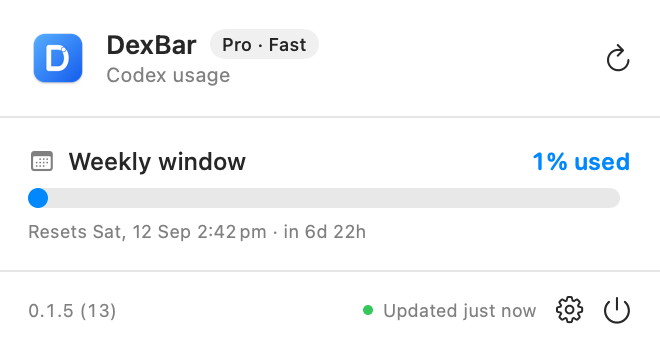
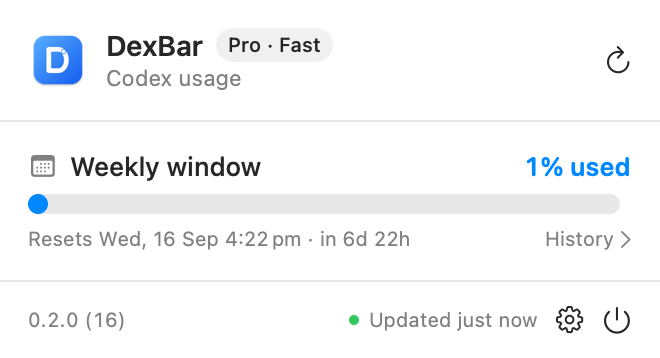
Update README and screenshots for DexBar 0.2.0

diff --git a/README.md b/README.md
@@ -24,6 +24,9 @@ SwiftUI and AppKit, contains no web view, and stays out of the Dock. The normal 
 deliberately quiet: weekly usage remains primary, while shorter or model-specific limits
 surface only when Codex reports that they matter.
 
+Version **0.2.0** adds daily usage history, time-zone views, early-reset reporting, and larger
+popover text. See the [0.2.0 release notes](https://github.com/vmlrodrigues/DexBar/releases/tag/v0.2.0).
+
 <p align="center">
   <a href="Docs/DexBar-current.png"><img src="Docs/DexBar-current.png" width="600" alt="DexBar showing the minimal weekly usage view"></a>
 </p>
@@ -66,6 +69,18 @@ times make partial first and last days explicit. Extended windows open with toda
 small arrows beside the daily strip provide access to earlier and later days. If readings
 were recorded in different time zones, a time-zone menu keeps each zone's days accessible
 with their original calendar boundaries.
+
+Use the arrows beside the date range to move between allowance windows. Background refreshes
+keep the selected window in place while it remains in the stored history.
+
+Daily totals use these markers:
+
+| Example | Meaning |
+| --- | --- |
+| `+5%` | Usage measured from a reset or a baseline close to local midnight. |
+| `≈5%` | Estimated daily attribution across a longer observation gap. |
+| `≥5%` | At least this much usage since the first observation; the day's baseline is incomplete. |
+| `—` | No daily total is available, or the day is still in the future. |
 
 <p align="center">
   <a href="Docs/DexBar-history-current.png"><img src="Docs/DexBar-history-current.png" width="600" alt="DexBar daily history showing the current usage week"></a>
@@ -117,7 +132,7 @@ and red appear only when the uncertainty range says the allowance may or is like
 - Immediate refresh when the popover opens and after the Mac wakes.
 - Optional notifications at 80%, 95%, and when the weekly projection crosses the limit.
 - An optional global shortcut to show or hide the popover from any app.
-- Launch at login, manual refresh, projection-history clearing, and a manual update check.
+- Launch at login, manual refresh, clearing projection and daily history, and a manual update check.
 - Daily Sparkle update checks that always ask before installing.
 
 The global shortcut uses Carbon hotkey registration. It receives only the chosen combination,
@@ -130,8 +145,9 @@ and the effective default service mode. It reuses the existing Codex sign-in but
 or copy authentication tokens into its own files or logs. Checking usage does not send a prompt,
 consume allowance, or start a usage window.
 
-For projection and daily history, DexBar stores only window identifiers, usage percentages,
-timestamps, reset dates, and local-day boundaries. Projection samples are retained for eight days
+For projection and daily history, DexBar stores window identifiers, usage percentages,
+timestamps, reset dates, window durations, local-day boundaries, time-zone identifiers, and
+coverage markers. Projection samples are retained for eight days
 in `~/Library/Application Support/DexBar/projection-history.json`; compact daily records are retained
 for thirteen weeks in `~/Library/Application Support/DexBar/usage-history.json`. Both can be cleared
 from **Settings → Data & Privacy**. Neither file contains prompts, source code, account identifiers,
@@ -167,6 +183,10 @@ The app bundle is written to `dist/DexBar.app`. A normal invocation creates an a
 development build: its menu-bar symbol is a hammer, automatic updates and login-item changes
 are disabled, and the About pane identifies it as Development. The build script refuses to
 replace that exact development bundle while it is running.
+
+The number in parentheses after the version is the build number: **0.2.0 (16)** is the published
+0.2.0 release. Builds derive this number from the Git commit count, so new commits increase it;
+rebuilding the same commit keeps the same number. Sparkle uses it to compare updates.
 
 Regenerate every standard and Retina icon representation, plus `Resources/AppIcon.icns`, with:
 
@@ -216,8 +236,9 @@ assets byte-for-byte before continuing after a partial failure.
   policy, and projection logic.
 - `Sources/DexBar` — AppKit lifecycle and menu-bar plumbing, SwiftUI views, preferences,
   notifications, polling, and Sparkle integration.
-- `Tests/DexBarCoreTests` — window visibility, thresholds, build policy, projection,
-  service-mode mapping, client lifecycle, notifications, and formatting tests.
+- `Tests/DexBarCoreTests` — window visibility, thresholds, build policy, projection, daily-history
+  recording and migration, time-zone boundaries, service-mode mapping, client lifecycle,
+  notifications, and formatting tests.
 - `Scripts` — deterministic icon generation, application assembly, signing, notarization,
   appcast generation, and guarded GitHub publication.
 - `Docs` — README screenshots generated by DexBar's headless native renderer, plus the app-icon
